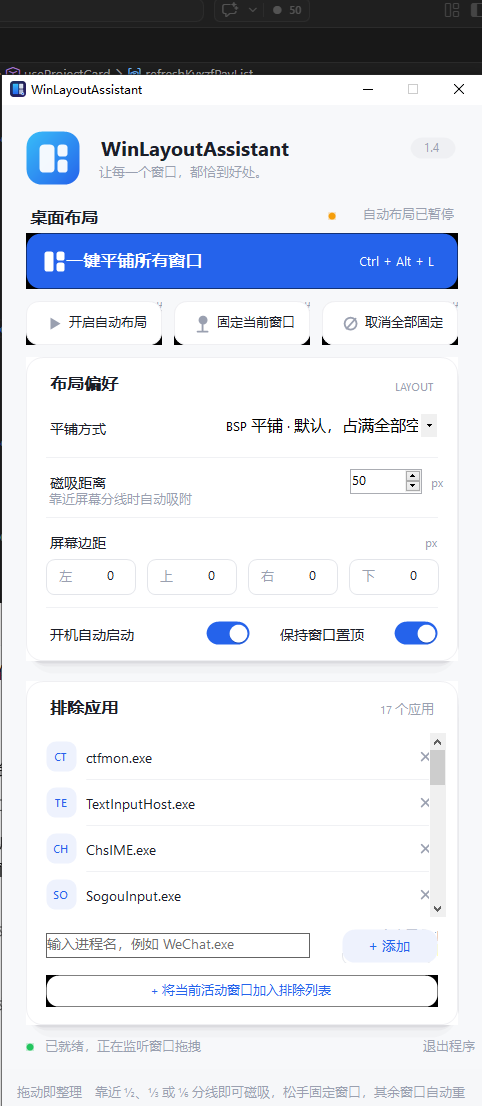
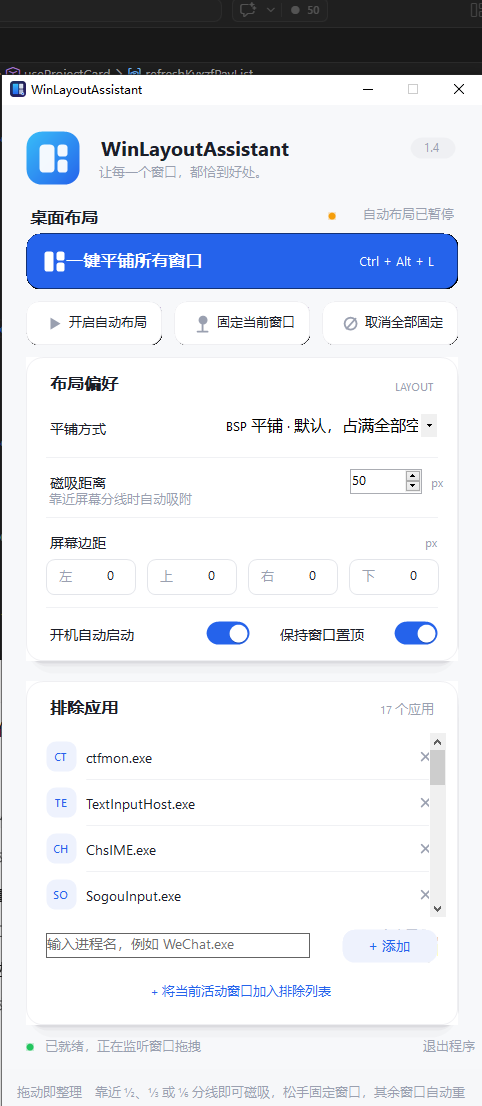
fix: black corners on rounded buttons
- clip RoundedButton to its rounded Region and inherit the parent's
  BackColor, so themed (dark) system colours can't leak into corners
- replace the blacklist link button with a plain label: no more
  dotted focus rectangle, matches the mockup exactly

diff --git a/src/UiControls.cs b/src/UiControls.cs
@@ -129,6 +129,31 @@ public sealed class RoundedButton : Button
                  ControlStyles.UserPaint | ControlStyles.ResizeRedraw, true);
     }
 
+    /// <summary>
+    /// Corners outside the rounded path are painted with BackColor; inheriting
+    /// the parent's colour keeps them invisible even on dark-themed systems
+    /// where the default Control colour renders almost black.
+    /// </summary>
+    protected override void OnParentChanged(EventArgs e)
+    {
+        base.OnParentChanged(e);
+        if (Parent != null) BackColor = Parent.BackColor;
+    }
+
+    /// <summary>
+    /// Clip the control to the rounded shape itself, so nothing the button (or
+    /// a quirky theme) paints can leak into the corners – the parent's
+    /// background shows through instead.
+    /// </summary>
+    protected override void OnResize(EventArgs e)
+    {
+        base.OnResize(e);
+        if (Width <= 0 || Height <= 0) return;
+        using var path = Theme.RoundedRect(new Rectangle(0, 0, Width, Height), Radius);
+        Region?.Dispose();
+        Region = new Region(path);
+    }
+
     protected override void OnMouseEnter(EventArgs e) { _hover = true; Invalidate(); base.OnMouseEnter(e); }
     protected override void OnMouseLeave(EventArgs e) { _hover = false; _pressed = false; Invalidate(); base.OnMouseLeave(e); }
     protected override void OnMouseDown(MouseEventArgs e) { _pressed = true; Invalidate(); base.OnMouseDown(e); }

diff --git a/src/MainForm.cs b/src/MainForm.cs
@@ -136,8 +136,16 @@ public sealed class MainForm : Form
         _blacklistInput.Top = 252; _blacklistInput.Left = 20;
         var blAddBtn = new RoundedButton { Text = "+ 添加", ButtonKind = RoundedButton.Kind.Soft, Top = 248, Left = 316, Width = 96, Height = 34 };
         blAddBtn.Click += (_, _) => AddBlacklist(_blacklistInput.Text);
-        var blActiveBtn = new RoundedButton { Text = "+ 将当前活动窗口加入排除列表", ButtonKind = RoundedButton.Kind.Link, Font = Theme.SmallFont, Top = 294, Left = 20, Width = 392, Height = 32 };
+        var blActiveBtn = new Label
+        {
+            Text = "+ 将当前活动窗口加入排除列表",
+            Font = Theme.SmallFont, ForeColor = Theme.Accent, BackColor = Theme.Card,
+            AutoSize = false, Top = 294, Left = 20, Width = 392, Height = 32,
+            TextAlign = ContentAlignment.MiddleCenter, Cursor = Cursors.Hand
+        };
         blActiveBtn.Click += (_, _) => AddActiveWindowToBlacklist();
+        blActiveBtn.MouseEnter += (_, _) => blActiveBtn.ForeColor = Theme.AccentHover;
+        blActiveBtn.MouseLeave += (_, _) => blActiveBtn.ForeColor = Theme.Accent;
         card3.Controls.AddRange(new Control[] { _blacklistCount, _blacklistView, _blacklistInput, blAddBtn, blActiveBtn });
 
         // --- status row + footer band ---
